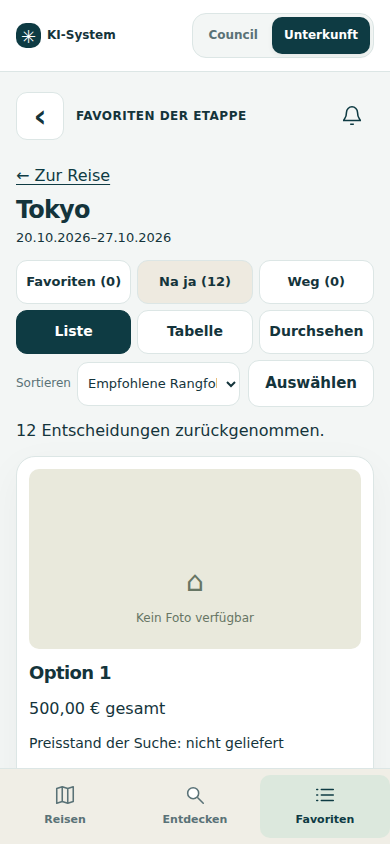
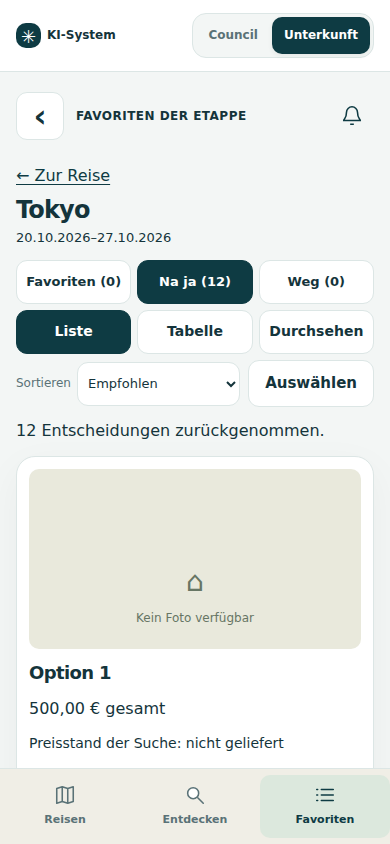
Address mobile polish review: labels and active states

Changed region(s): [[0.3385, 0.3081, 0.6462, 0.3697], [0.4, 0.4313, 0.5538, 0.4621]]

diff --git a/stay-photos.js b/stay-photos.js
@@ -22,7 +22,7 @@ function tripPhotos(etappeId,live,{initialPhotos=null}={}){
  function url(value){try{const u=new URL(value);return u.protocol==='https:'&&!u.username&&!u.password?u.href:null;}catch{return null;}}
  function photoImage(p){return el('img',{src:url(p.url),alt:p.titel||'Aufenthaltsfoto',loading:'lazy',referrerpolicy:'no-referrer',onerror:()=>{if(!active())return;if(!refreshUsed&&!pending){refreshUsed=true;void load(false);}else message.textContent='Foto nicht verfügbar. Bitte Fotos neu laden.';}});}
  function show(p){viewer?.d.close();viewedId=p.foto_id;viewer=tripDialog(p.titel||'Aufenthaltsfoto');viewer.body.append(photoImage(p));viewer.d.classList.add('stay-photo-viewer');viewer.d.addEventListener('close',()=>{viewer=null;viewedId=null;});}
- function draw(){list.replaceChildren(...photos.map(p=>el('figure',{},el('button',{type:'button','aria-label':'Foto groß öffnen',onclick:()=>show(p)},photoImage(p)),el('button',{type:'button',class:'photo-remove','aria-label':'Foto löschen',onclick:()=>remove(p)},'×'))));controls();
+ function draw(){list.replaceChildren(...photos.map((p,i)=>el('figure',{},el('button',{type:'button','aria-label':'Foto groß öffnen',onclick:()=>show(p)},photoImage(p)),el('button',{type:'button',class:'photo-remove','aria-label':`Foto ${i+1} löschen`,onclick:()=>remove(p)},'×'))));controls();
   if(viewer){const p=photos.find(p=>p.foto_id===viewedId);if(p)viewer.body.replaceChildren(photoImage(p));else viewer.d.close();}
  }
  async function load(manual=false,initial=false){if(pending||!active())return;pending=true;if(manual)refreshUsed=false;controls();message.textContent='Fotos werden geladen …';

diff --git a/stay-workplace.js b/stay-workplace.js
@@ -23,7 +23,7 @@ async function viewDecisionPlace(arg){
   const undo=button('Rückgängig',async()=>{if(pending||uncertain||!lastBatch.length)return;const saved=[...lastBatch];lastBatch=[];await move(saved,null,true);});
   const tabs=el('div',{class:'actions','aria-label':'Entscheidungsgruppen'});
   const modeButtons=el('div',{class:'actions','aria-label':'Ansichten'},...['list','table','tinder'].map(key=>button({list:'Liste',table:'Tabelle',tinder:'Durchsehen'}[key],()=>{if(pending||review?.pending)return;mode=key;draw();})));
-  const sorting=el('select',{'aria-label':'Entscheidungen sortieren',onchange:e=>{sortKey=e.target.value;draw();}},...['rang','preis','name','m2','schlafzimmer'].map(k=>el('option',{value:k},{rang:'Empfohlene Rangfolge',preis:'Gesamtpreis',name:'Name',m2:'Fläche',schlafzimmer:'Schlafzimmer'}[k])));
+  const sorting=el('select',{'aria-label':'Entscheidungen sortieren',onchange:e=>{sortKey=e.target.value;draw();}},...['rang','preis','name','m2','schlafzimmer'].map(k=>el('option',{value:k},{rang:'Empfohlen',preis:'Preis',name:'Name',m2:'Fläche',schlafzimmer:'Schlafzimmer'}[k])));
   const controls=el('div',{class:'decision-controls'}),sortLabel=el('label',{},'Sortieren',sorting);
   controls.append(tabs,modeButtons,sortLabel,toolbar);
   scope.append(el('a',{href:'#/reisen/'+r.etappe.reise_id},'← Zur Reise'),el('h2',{},r.etappe.ziel),el('p',{},fmtDate(r.etappe.anreise)+'–'+fmtDate(r.etappe.abreise)),controls,status,content,el('div',{class:'actions'},reload,button('Woanders gebucht',()=>tripExternalBooking(r.etappe,()=>render())),button('Suche auffrischen',()=>tripRefresh(r.etappe)),button('Keiner passt',()=>{

diff --git a/style.css b/style.css
@@ -1015,7 +1015,7 @@ body:has(.tinder-mode) main.view{padding:8px 10px;}
 .decision-controls>.actions:not([aria-label]){margin:0;align-self:center}
 .decision-controls>.actions:not([aria-label]):has(button:nth-child(3)){grid-column:1/-1}
 .decision-controls button{min-height:44px}
-.decision-controls [aria-label="Ansichten"] button[aria-pressed="true"]{background:#0e3b43;color:white;border-color:#0e3b43}
+.decision-controls [aria-label] button[aria-pressed="true"]{background:#0e3b43;color:white;border-color:#0e3b43}
 .decision-place>p[role="status"]:empty{display:none}
 .decision-place>h2{margin:6px 0 2px}
 .decision-place>h2+p{font-size:13px;margin:0 0 6px}

diff --git a/docs/W89-ABNAHME.md b/docs/W89-ABNAHME.md
@@ -10,3 +10,5 @@ App 0.21.1, Cache v34. Noch nicht veröffentlicht.
 Screenshots mit synthetischen Testdaten: previews/paket-b-entscheidungsplatz-mobile.png, previews/paket-b-durchsehen-mobile.png, previews/w88-fotos-mobile.png.
 
 Bewusst offen für eine weitere Designrunde: mobiler Vergleich nebeneinander, Etappen-Aktionsmenü, Zusammenfassung fehlender Angaben. Dieser PR ist ein kleiner Bedienungsfeinschliff. Live-Login und physisches iPhone in dieser Runde nicht durchgespielt.
+
+Nachprüfung 386: kurze Sortieroptionen (Empfohlen/Preis), gemeinsame Petrol-Markierung beider aktiver Zeilen und eindeutige Foto-Löschlabels nach Bildnummer.
